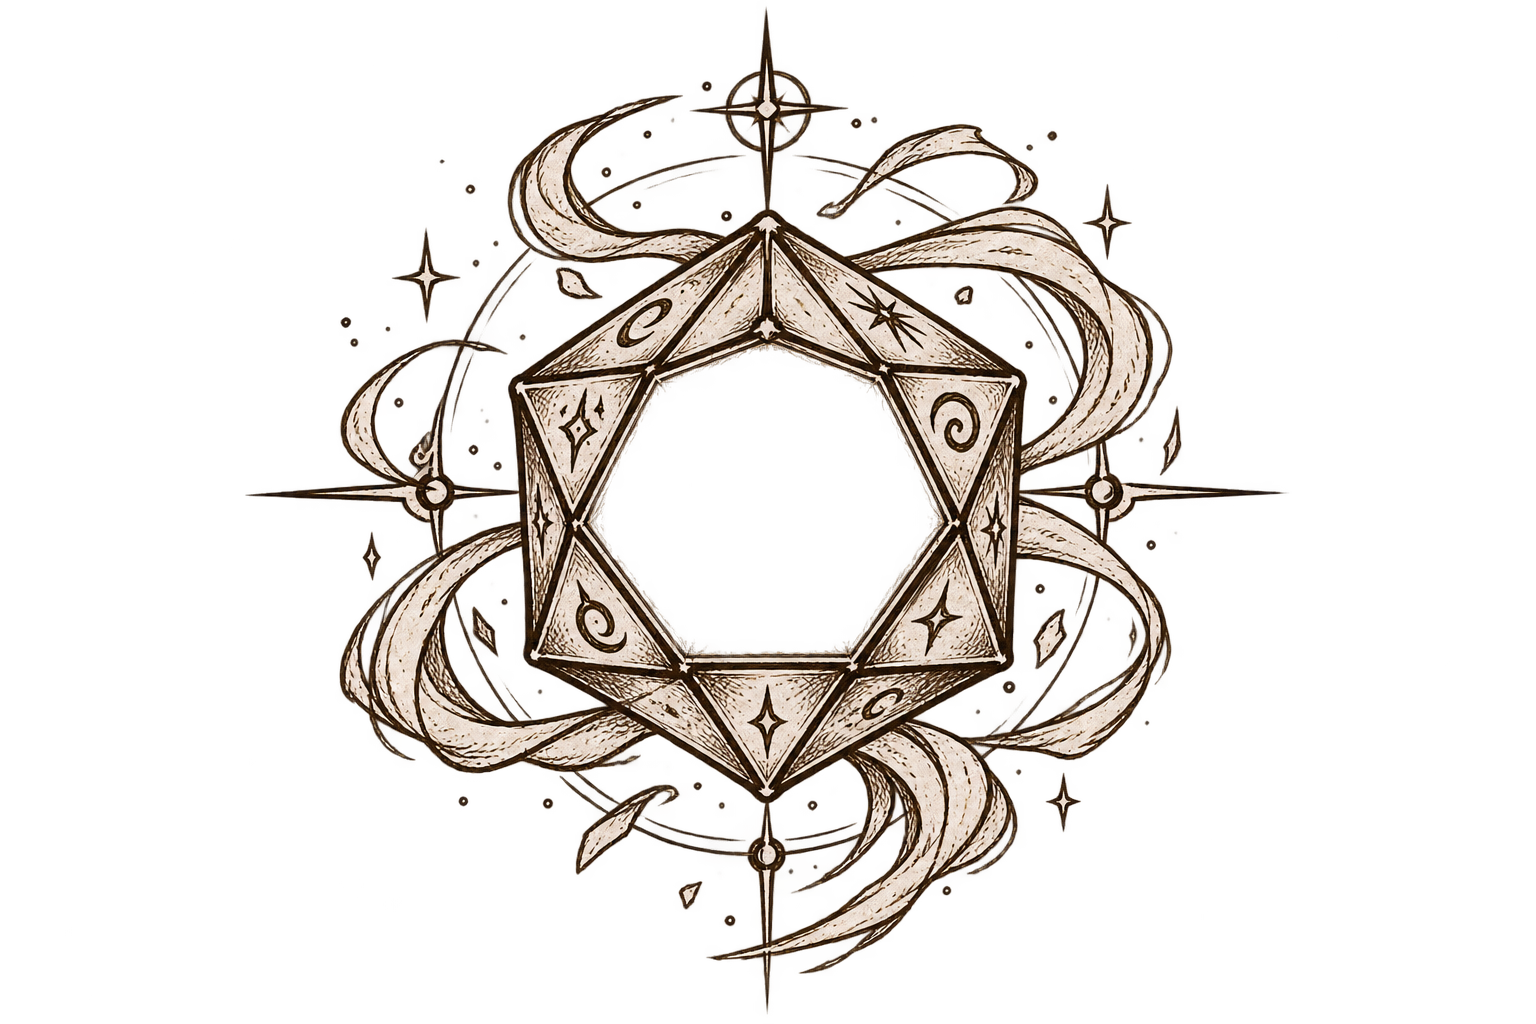
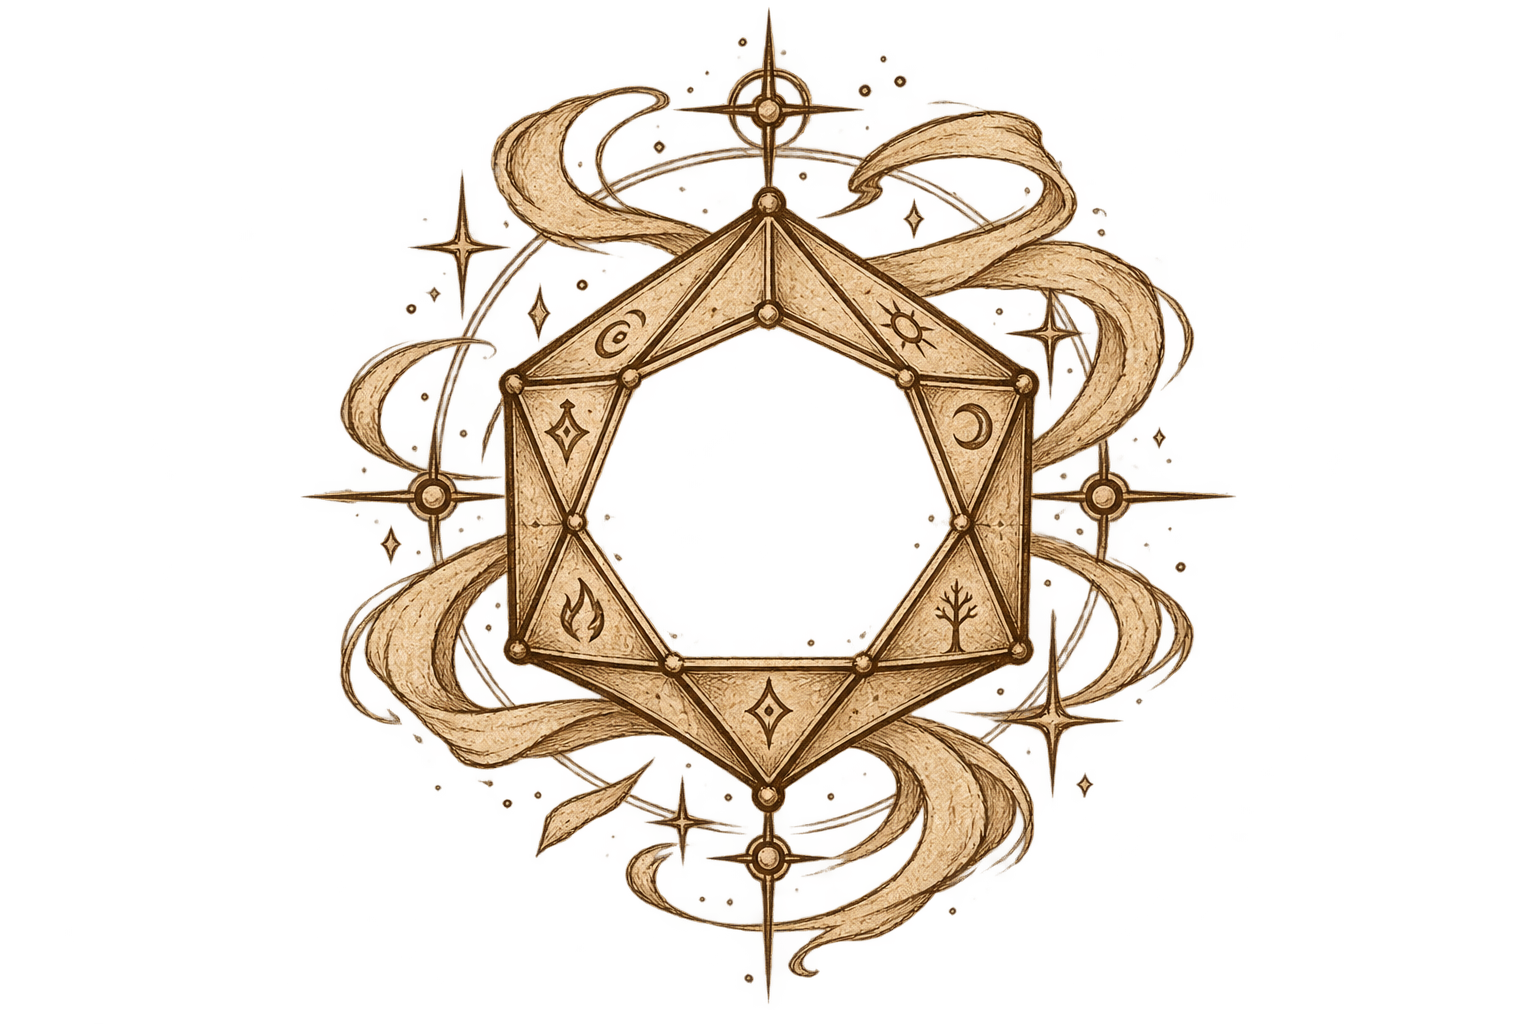
New D20 art, Imperial Script font, smaller portrait, fix bookmarks-bar cutoff
- New ornate gold D20 artwork replaces the old transparent-die render;
  roll button image now carries a cache-busting query string so
  browsers that cached the old file under the same URL pick up the
  change.
- Swapped MedievalSharp for Imperial Script (a free stand-in for the
  purchased "New Regent Quill") across all script-styled text,
  including panel titles (Race/Class/STR/DEX/etc.), which needed their
  forced uppercase and letter-spacing dropped since script faces don't
  render disconnected all-caps legibly at small sizes.
- Roll button panel and race/class portrait frame both shrunk (~35%
  and 20% respectively) - they were dominating the page relative to
  the rest of the sheet; hand-drawn borders track the new sizes
  automatically since they're positioned via inset:0 on the same box.
- Fixed background art and UI getting cut off in short browser
  windows (e.g. with a bookmarks bar visible): the landing scene's
  cover-fit background now anchors to the bottom instead of center,
  keeping the book fully in frame; the book/ledger scene switched its
  layout math from a "cover" fit to "contain" so the header banner and
  footer controls, which sit right at the image's top and bottom
  edges, can never be scaled off-screen the way they could before.

Claude-Session: https://claude.ai/code/session_01CZssfW39HYpnm9nNsqdDPG

Changed region(s): [[0.1562, 0.0312, 0.8438, 0.9688], [0.5625, 0.0625, 0.5938, 0.0938]]

diff --git a/styles.css b/styles.css
@@ -24,7 +24,7 @@
   --ink-fixed-soft: rgba(44, 32, 19, 0.6);
 
   --font-display: Georgia, "Iowan Old Style", "Palatino Linotype", "Book Antiqua", serif;
-  --font-script: "MedievalSharp", "Segoe Script", var(--font-display);
+  --font-script: "Imperial Script", "Segoe Script", var(--font-display);
   --font-body: -apple-system, "Segoe UI", system-ui, "Helvetica Neue", sans-serif;
   --font-mono: ui-monospace, "Cascadia Mono", "SFMono-Regular", Consolas, "Liberation Mono", monospace;
 }
@@ -85,7 +85,7 @@ button:focus-visible, input:focus-visible, select:focus-visible, a:focus-visible
 /* ---------- Landing scene ---------- */
 .scene--landing { position: fixed; inset: 0; overflow: hidden; z-index: 1; }
 .scene--landing.on-top { z-index: 5; }
-.landing-img { position: absolute; inset: 0; width: 100%; height: 100%; object-fit: cover; display: block; }
+.landing-img { position: absolute; inset: 0; width: 100%; height: 100%; object-fit: cover; object-position: 50% 100%; display: block; }
 .hotspots { position: absolute; inset: 0; width: 100%; height: 100%; }
 .hotspot {
   fill: rgba(255, 214, 140, 0.001);
@@ -161,7 +161,7 @@ button:focus-visible, input:focus-visible, select:focus-visible, a:focus-visible
 .scene--book { position: fixed; inset: 0; z-index: 2; overflow: hidden; background: var(--wood-2); }
 .scene--book[hidden] { display: none; }
 
-.book-bg { position: absolute; inset: 0; width: 100%; height: 100%; object-fit: cover; display: block; }
+.book-bg { position: absolute; inset: 0; width: 100%; height: 100%; object-fit: contain; display: block; }
 
 .back-btn {
   position: absolute; top: 18px; left: 18px; z-index: 6;
@@ -172,10 +172,13 @@ button:focus-visible, input:focus-visible, select:focus-visible, a:focus-visible
 .back-btn:hover { background: rgba(20,14,6,0.75); }
 
 /* Overlay div is resized/positioned via JS to exactly match the book-bg image's
-   object-fit:cover crop rectangle (natural size 1672x941), so every field below
-   can be positioned with plain percentages regardless of viewport size — the
-   same trick the landing hotspots use via SVG viewBox slice, generalized for
-   real HTML form elements. */
+   object-fit:contain letterbox rectangle (natural size 1672x941), so every field
+   below can be positioned with plain percentages regardless of viewport size —
+   the same trick the landing hotspots use via SVG viewBox slice, generalized for
+   real HTML form elements. contain (not cover) is deliberate: it guarantees the
+   whole spread, including the header/footer controls near its top and bottom
+   edges, always stays fully on-screen instead of being cropped off by a short
+   viewport (e.g. a browser with a bookmarks bar). */
 .book-overlay { position: absolute; perspective: 2200px; }
 .spread { position: absolute; inset: 0; }
 .spread[hidden] { display: none; }
@@ -284,7 +287,7 @@ button:focus-visible, input:focus-visible, select:focus-visible, a:focus-visible
 .write-in { opacity: 0; animation: write-in 0.5s ease forwards; }
 
 .gen-label {
-  font-family: var(--font-body); font-weight: 700; font-size: clamp(8px, 1vw, 11px); letter-spacing: 0.1em; text-transform: uppercase;
+  font-family: var(--font-script); font-weight: 700; font-size: clamp(12px, 1.5vw, 16px); letter-spacing: 0.02em;
   color: var(--ink-fixed-soft); margin-bottom: 2px;
 }
 .gen-value {
@@ -295,7 +298,7 @@ button:focus-visible, input:focus-visible, select:focus-visible, a:focus-visible
 .gen-sublabel { font-family: var(--font-mono); font-weight: 700; font-size: clamp(8px, 0.9vw, 10px); color: var(--ink-fixed-soft); margin-top: 1px; }
 
 .gen-roll {
-  left: 11%; top: 2.5%; width: 40%; height: 41%;
+  left: 18%; top: 9.5%; width: 26%; height: 26.6%;
   background: transparent; border: none; cursor: pointer;
   transition: filter 0.15s ease;
 }
@@ -329,7 +332,7 @@ button:focus-visible, input:focus-visible, select:focus-visible, a:focus-visible
 .gen-derived-item .gen-value { font-size: clamp(12px, 1.5vw, 16px); }
 
 .gen-portrait {
-  left: 51%; top: 4.2%; width: 23%; height: 37%;
+  left: 53.3%; top: 7.9%; width: 18.4%; height: 29.6%;
   opacity: 0; transition: opacity 0.7s ease; padding: 3%; overflow: hidden;
 }
 .gen-portrait.show { opacity: 1; }

diff --git a/index.html b/index.html
@@ -5,7 +5,7 @@
 <meta name="viewport" content="width=device-width, initial-scale=1" />
 <link rel="preconnect" href="https://fonts.googleapis.com" />
 <link rel="preconnect" href="https://fonts.gstatic.com" crossorigin />
-<link href="https://fonts.googleapis.com/css2?family=MedievalSharp&display=swap" rel="stylesheet" />
+<link href="https://fonts.googleapis.com/css2?family=Imperial+Script&display=swap" rel="stylesheet" />
 <link rel="stylesheet" href="styles.css" />
 <title>The Tavern Ledger — Oakhurst West Marches</title>
 </head>
@@ -33,7 +33,7 @@
 
   <section class="scene scene--landing" id="landing">
     <img class="landing-img" id="landingImg" src="docs/AI_Artwork/LandingPage.png" alt="The Oakhurst tavern: a bartender behind the counter and an open book on the bar" />
-    <svg class="hotspots" viewBox="0 0 1536 1024" preserveAspectRatio="xMidYMid slice" aria-hidden="true">
+    <svg class="hotspots" viewBox="0 0 1536 1024" preserveAspectRatio="xMidYMax slice" aria-hidden="true">
       <polygon id="hotspotBartender" class="hotspot" role="button" tabindex="0" aria-label="Ask the bartender about the rules"
         points="742,93 661,100 613,200 598,316 597,432 609,538 637,643 911,643 900,538 921,432 908,316 872,200 819,100"></polygon>
       <polygon id="hotspotBook" class="hotspot" role="button" tabindex="0" aria-label="Open the ledger to roll a character"
@@ -72,7 +72,7 @@
 
       <div class="spread spread--generate" id="spreadGenerate" hidden>
         <button class="gen-field gen-roll" id="rollBtn" type="button" aria-label="Click to roll your fate">
-          <img class="gen-roll-art" src="docs/AI_Artwork/StylizedD20.png" alt="" />
+          <img class="gen-roll-art" src="docs/AI_Artwork/StylizedD20.png?v=2" alt="" />
           <span class="gen-roll-hint">Click to roll<br />your fate</span>
         </button>
 

diff --git a/script.js b/script.js
@@ -250,7 +250,7 @@
 
   function layoutBookOverlay() {
     var vw = window.innerWidth, vh = window.innerHeight;
-    var scale = Math.max(vw / BOOK_NAT_W, vh / BOOK_NAT_H);
+    var scale = Math.min(vw / BOOK_NAT_W, vh / BOOK_NAT_H);
     var dispW = BOOK_NAT_W * scale, dispH = BOOK_NAT_H * scale;
     var offX = (vw - dispW) / 2, offY = (vh - dispH) / 2;
     bookOverlay.style.left = offX + "px";
